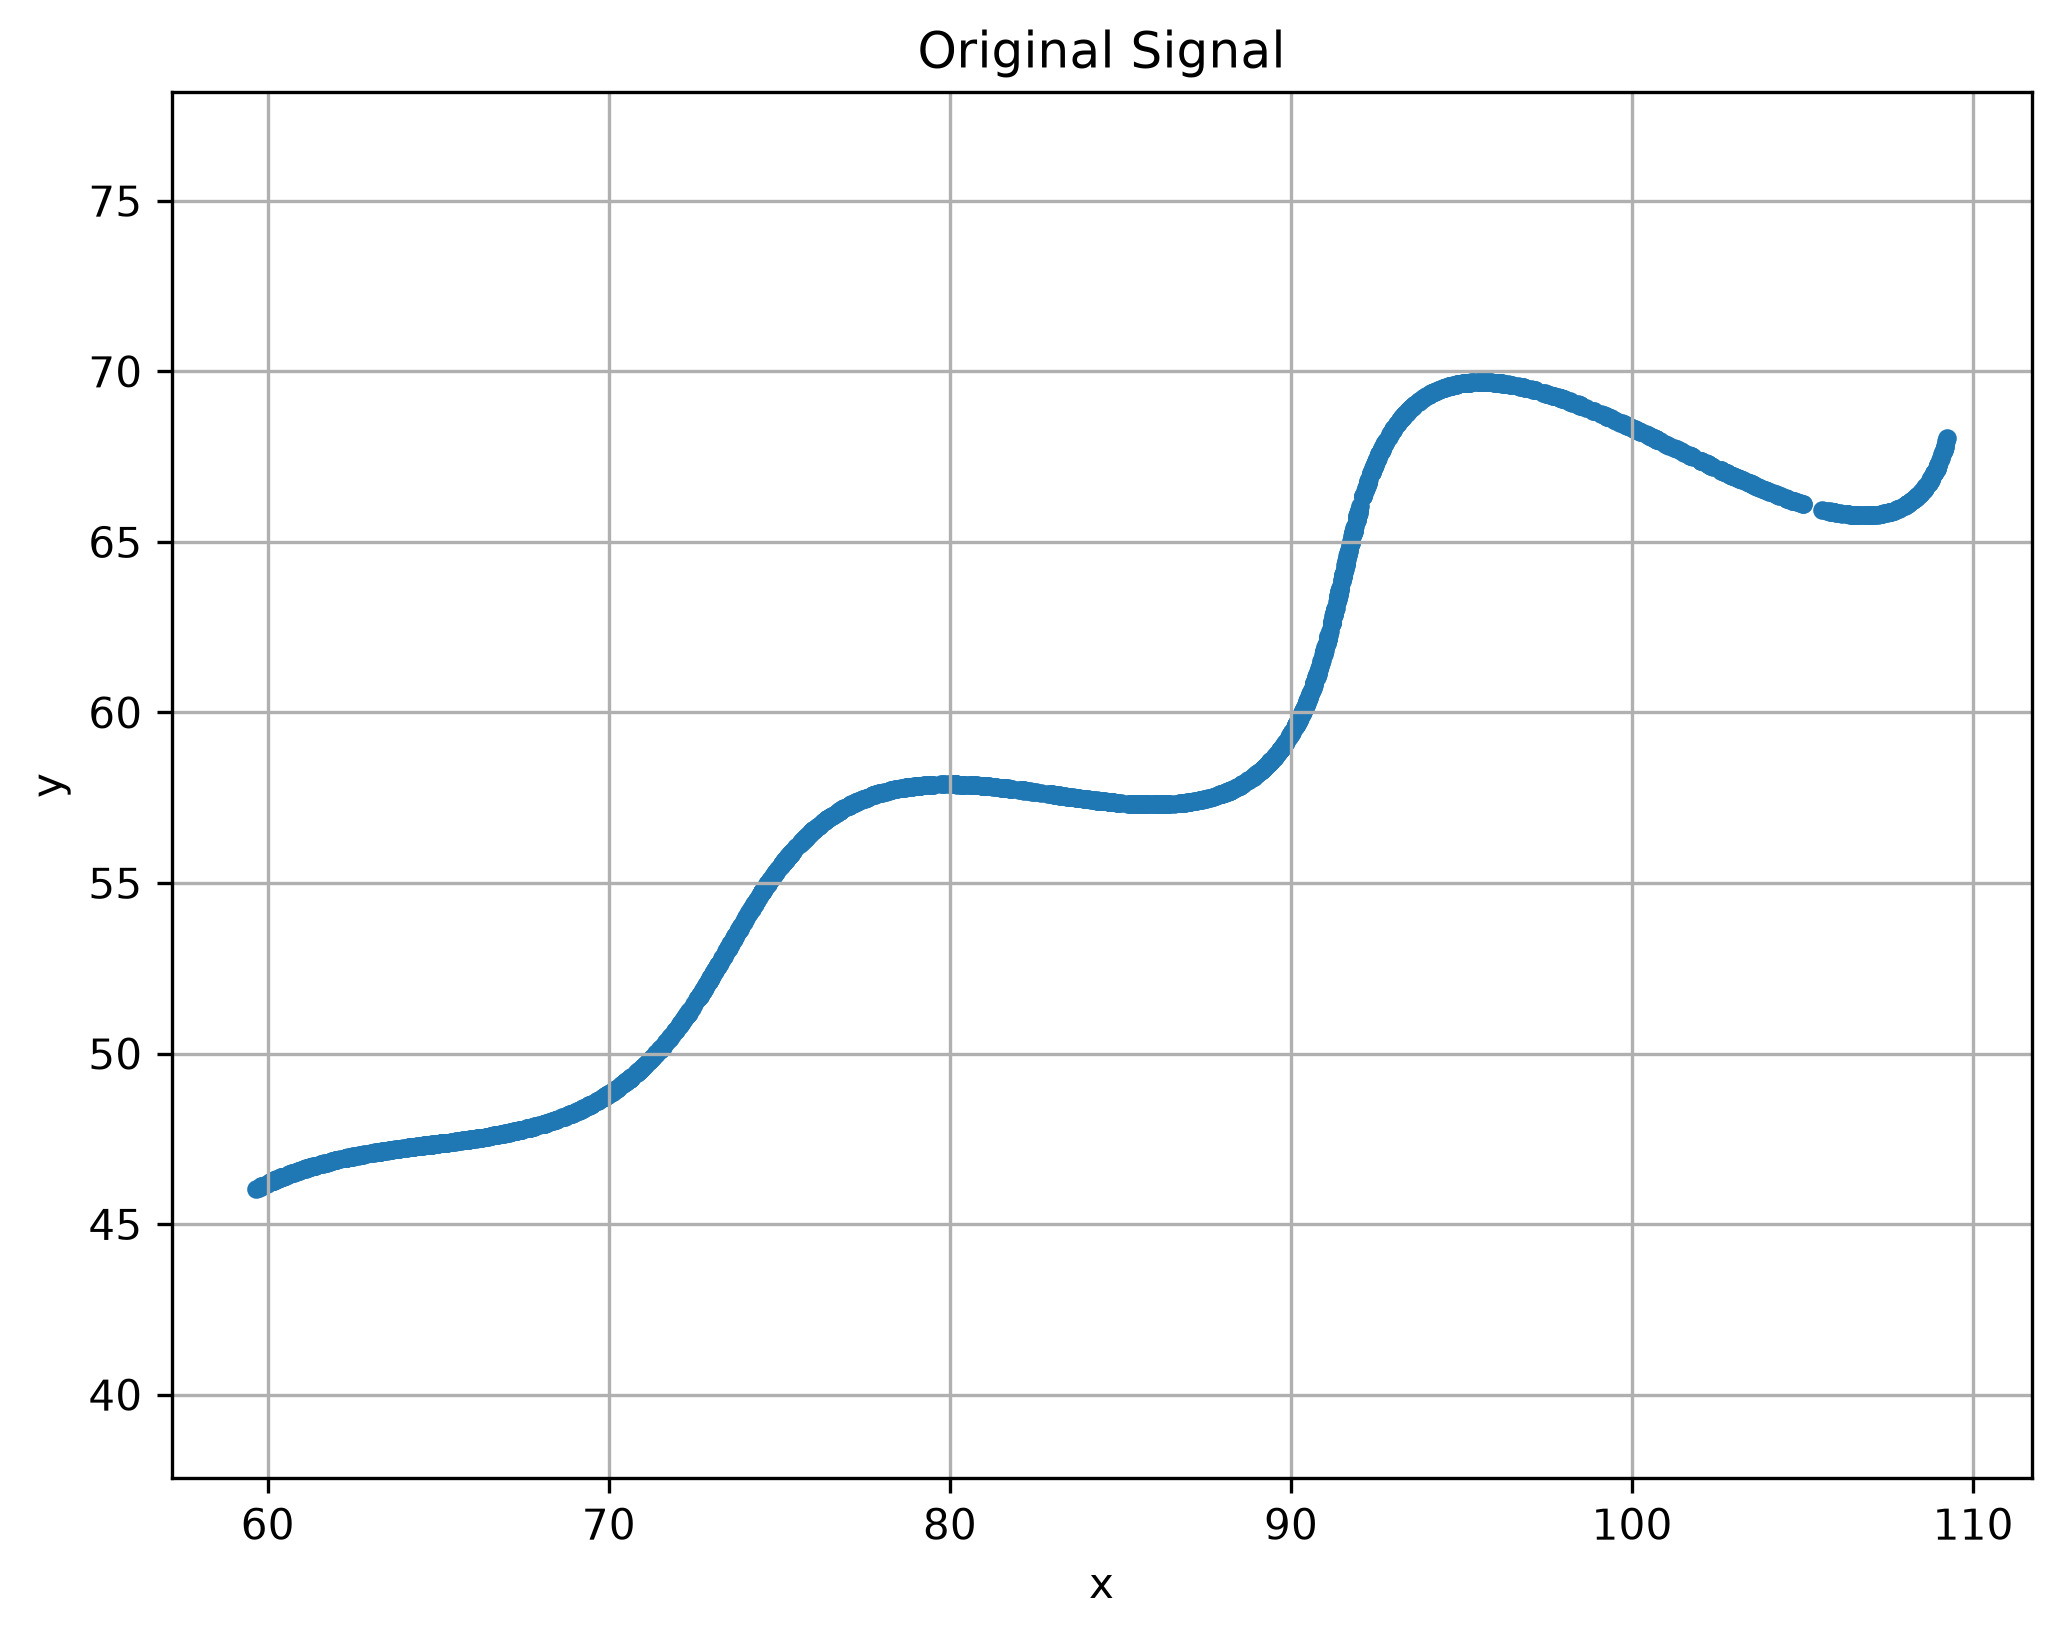
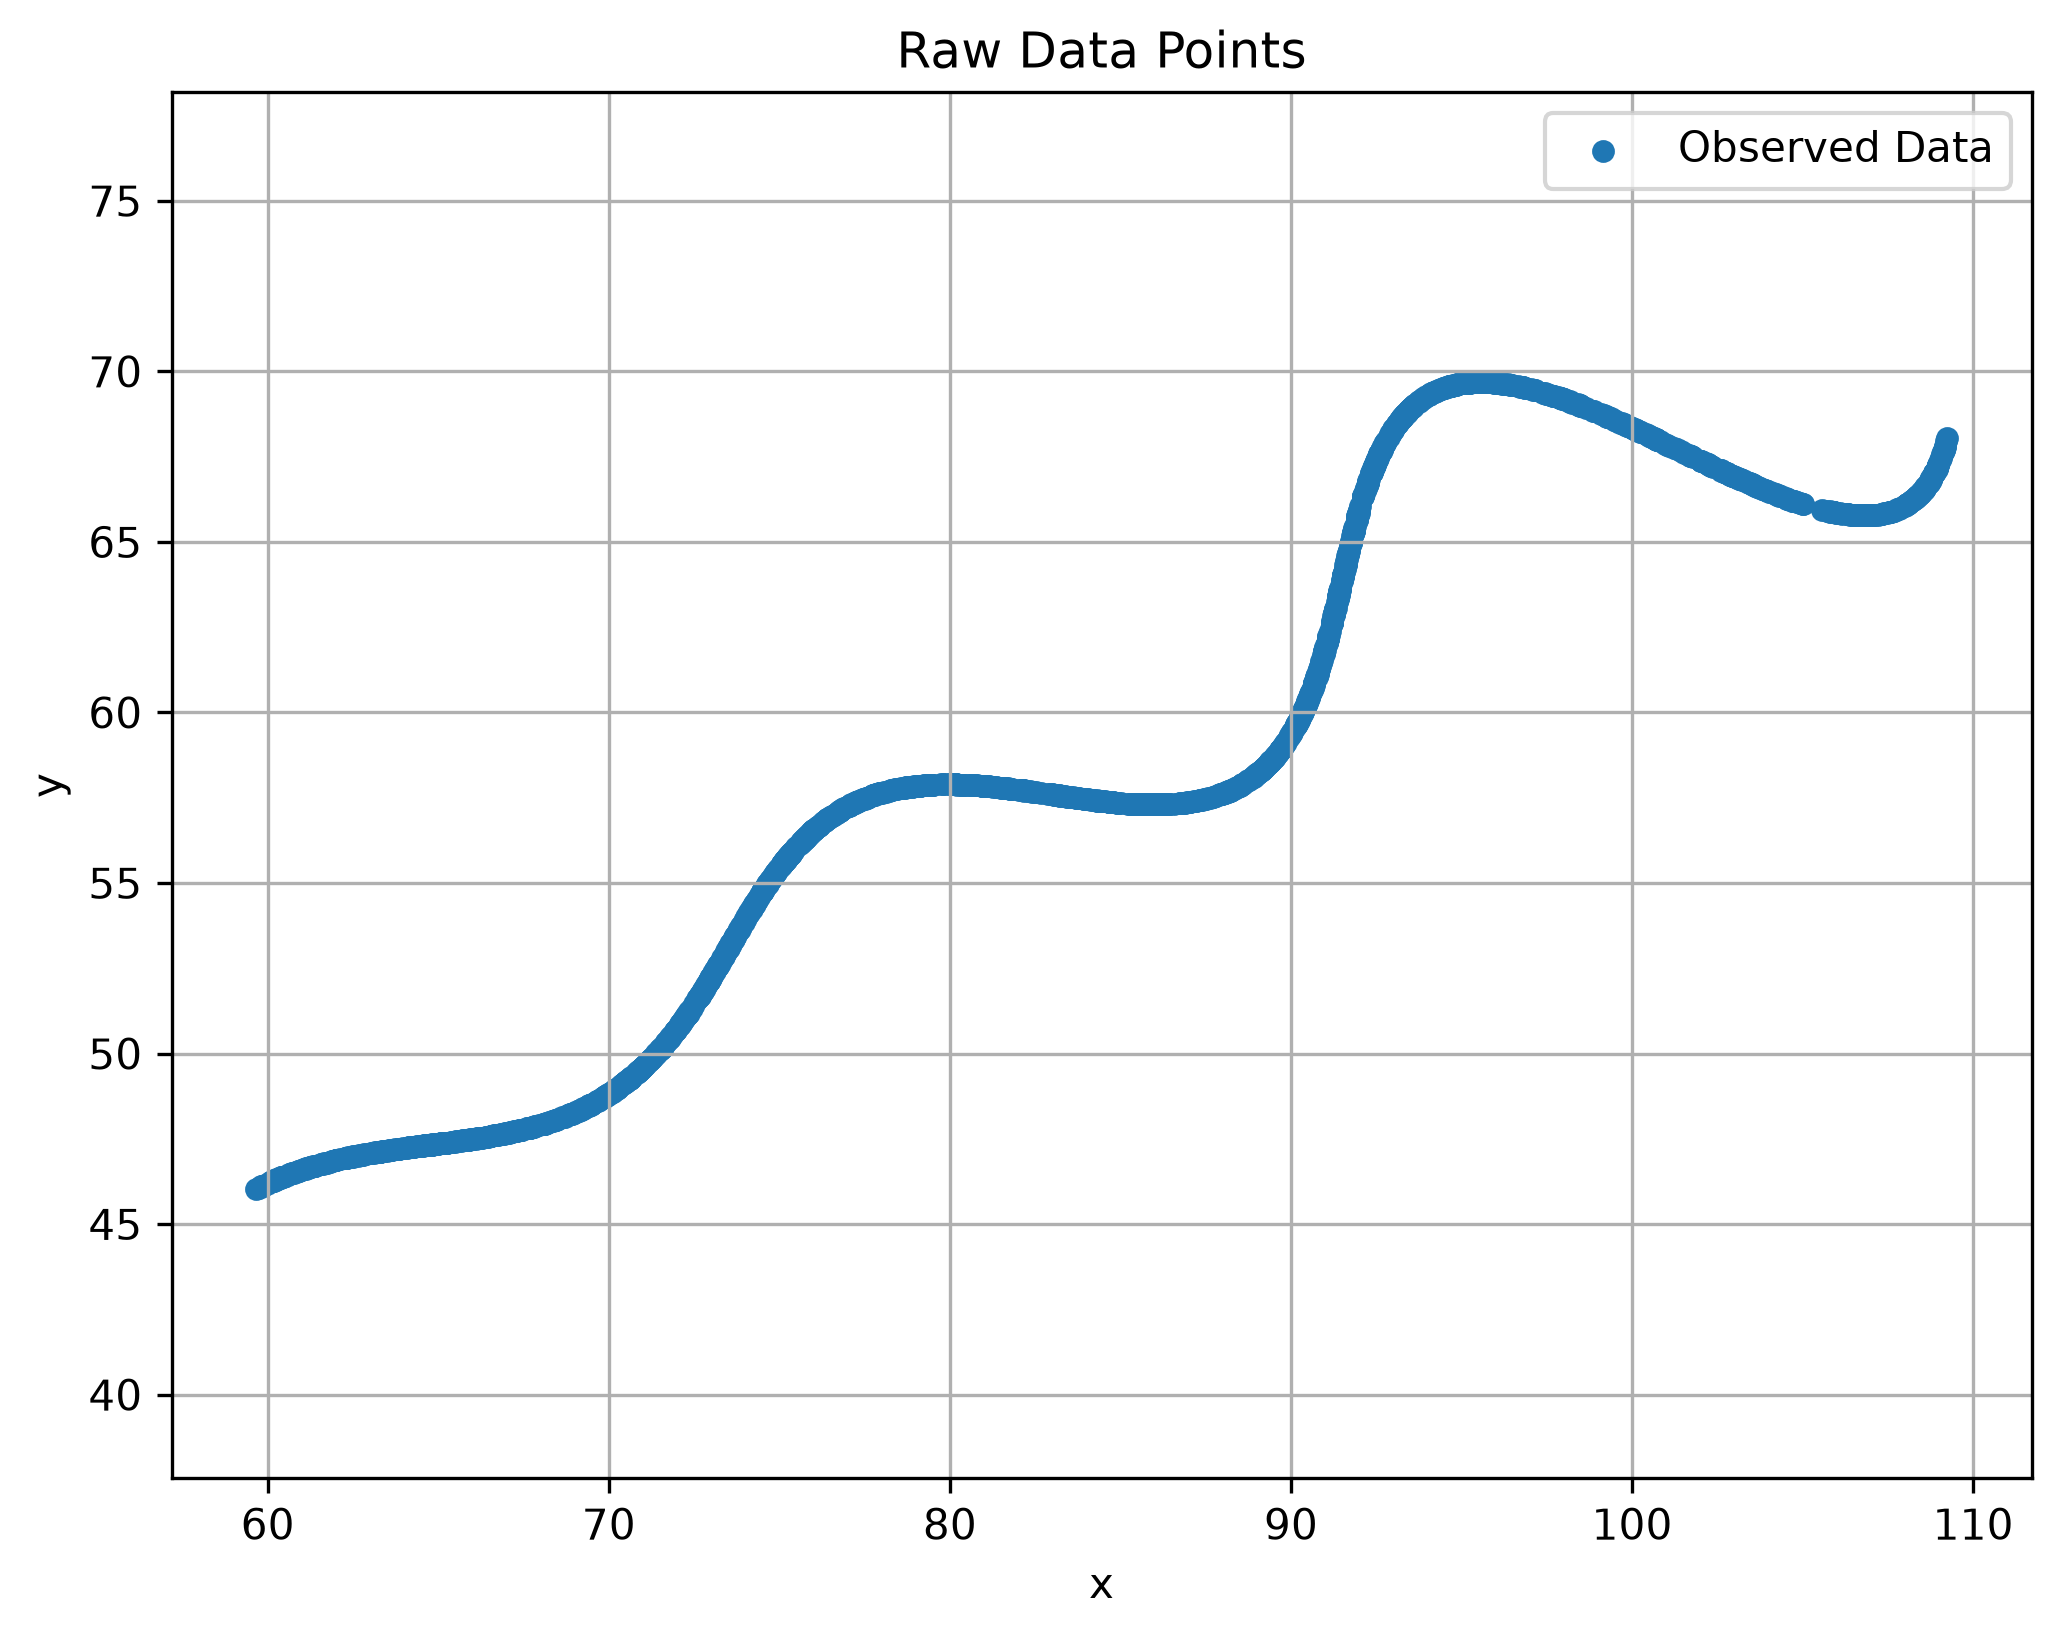
Updated readme

Changed region(s): [[0.7453, 0.0623, 0.9626, 0.1245], [0.4347, 0.0, 0.6211, 0.0623], [0.8384, 0.2802, 0.8695, 0.3114]]

diff --git a/main.py b/main.py
@@ -2,35 +2,56 @@ import os
 import pandas as pd
 import matplotlib.pyplot as plt
 
+os.makedirs("results", exist_ok=True)
+
 df = pd.read_csv("xy_data.csv")
 
-# Dataset Information
-print("\nDataset Shape:")
+print("Dataset Shape:")
 print(df.shape)
+
 print("\nColumns:")
 print(df.columns)
-print("\nFirst 5 rows:")
+
+print("\nFirst 5 Rows:")
 print(df.head())
-print("\nStatistics:")
+
+print("\nSummary Statistics:")
 print(df.describe())
 
-# Save statistics
 with open("results/data_summary.txt", "w") as f:
     f.write("Dataset Shape:\n")
     f.write(str(df.shape))
-    f.write("\n\nStatistics:\n")
+
+    f.write("\n\nColumns:\n")
+    f.write(str(list(df.columns)))
+
+    f.write("\n\nSummary Statistics:\n")
     f.write(str(df.describe()))
 
-plt.figure(figsize=(8,6))
+plt.figure(figsize=(8, 6))
+
+plt.scatter(
+    df["x"],
+    df["y"],
+    s=20,
+    label="Observed Data"
+)
+
 plt.xlabel("x")
 plt.ylabel("y")
-plt.title("Original Signal")
+plt.title("Raw Data Points")
 plt.axis("equal")
 plt.grid(True)
+plt.legend()
 
-plt.savefig("results/original_signal.png",dpi=300,bbox_inches="tight")
+plt.savefig(
+    "results/original_signal.png",
+    dpi=300,
+    bbox_inches="tight"
+)
 
 plt.show()
-print("\nSaved:")
+
+print("\nFiles Generated:")
 print("results/original_signal.png")
 print("results/data_summary.txt")

diff --git a/README.md b/README.md
@@ -1,3 +1,313 @@
-# flamapp-assignment
+# FlamAPP Assignment
 
-The optimization was formulated as a nested parameter estimation problem. The outer optimizer estimated the global curve parameters (θ, M, X), while an inner bounded scalar optimization recovered the closest curve parameter t for each observed point. This avoids introducing one optimization variable per sample point and significantly reduces the dimensionality of the global search space.
+## Recovering Unknown Parameters from a Parametric Curve
+
+### 1. What is this assignment about?
+
+In this assignment, we are given a set of `(x, y)` points stored in `xy_data.csv`.
+
+These points were generated from a mathematical curve, but some of the curve parameters were hidden.
+
+The goal is to recover the unknown values:
+
+* θ (theta)
+* M
+* X
+
+using only the observed points and the given curve equation. The assignment description asks us to estimate these unknown parameters from the provided data. 
+
+---
+
+## 2. Understanding the Curve
+
+The curve is defined by two equations:
+
+```text
+x(t) = t*cos(θ) - e^(M|t|)*sin(0.3t)*sin(θ) + X
+
+y(t) = 42 + t*sin(θ) + e^(M|t|)*sin(0.3t)*cos(θ)
+```
+
+At first glance this looks complicated, but it can be understood in three parts:
+
+### θ (Theta)
+
+Theta controls the rotation of the curve.
+
+If theta changes, the entire curve tilts in a different direction.
+
+---
+
+### M
+
+The exponential term contains M:
+
+```text
+e^(M|t|)
+```
+
+This controls whether the oscillations grow or shrink as `t` increases.
+
+* Positive M → oscillations grow
+* Negative M → oscillations decay
+* M near zero → oscillations stay roughly constant
+
+---
+
+### X
+
+X simply shifts the curve horizontally.
+
+Increasing X moves everything to the right.
+
+Decreasing X moves everything to the left.
+
+### A Useful Observation
+
+The equations can also be viewed from a geometric perspective.
+
+If we define:
+
+u(t) = t
+
+v(t) = e^(M|t|) sin(0.3t)
+
+then the curve becomes:
+
+x - X = u cos(θ) - v sin(θ)
+
+y - 42 = u sin(θ) + v cos(θ)
+
+This is exactly the form of a 2D rotation matrix.
+
+In other words, the curve can be interpreted as a base signal `(u,v)` that is rotated by an angle θ and then shifted horizontally by X.
+
+Recognizing this structure was useful because it showed that θ acts globally on the entire curve, while t acts locally on individual points. This observation naturally led to the nested optimization approach used later in the project.
+
+---
+
+## 3. First Step: Explore the Data
+
+Before attempting any optimization, I inspected the dataset.
+
+The purpose of this step was:
+
+* Verify the file loads correctly
+* Check the number of points
+* Look for missing values
+* Visualize the overall shape of the curve
+
+This is handled in `main.py`, which loads the dataset, prints basic statistics, and saves a scatter plot of the raw data.  
+
+Generated outputs:
+
+```text
+results/
+├── data_summary.txt
+└── original_signal.png
+```
+
+---
+
+## 4. Initial Idea
+
+My first thought was:
+
+> If the parameter t ranges from 6 to 60, perhaps the observed points are evenly spaced in t.
+
+Using this assumption, I generated:
+
+```python
+t = np.linspace(6, 60, len(data))
+```
+
+and compared the generated curve with the observed points.
+
+Although the overall shape looked reasonable, the fit was not accurate.
+
+The curve matched the trend but did not correctly align with many of the observed points.
+
+This suggested that the data points were not necessarily sampled at evenly spaced values of t.
+
+---
+
+## 5. Main Insight
+
+The important realization was:
+
+> The dataset gives us x and y values, but it never tells us which value of t produced each point.
+
+This means that t is effectively unknown for every observation.
+
+Instead of forcing:
+
+```text
+Point 1 → t1
+Point 2 → t2
+Point 3 → t3
+```
+
+using evenly spaced values,
+
+I allowed the algorithm to find the best t value for every observed point.
+
+This became the key idea behind the solution.
+
+Instead of treating t as a known quantity, the problem was reformulated as a parameter estimation task where θ, M and X are global variables, while t is recovered separately for each observed point. This reduced the dimensionality of the outer optimization problem and allowed the optimizer to focus only on the three unknown parameters requested in the assignment.
+
+---
+
+## 6. Optimization Strategy
+
+The optimization was performed in two levels.
+
+### Outer Optimization
+
+The outer optimizer searched for:
+
+```text
+θ
+M
+X
+```
+
+within the assignment limits. 
+
+I used Differential Evolution because:
+
+* It does not require gradients
+* It performs well on non-linear problems
+* It is less likely to get trapped in local minima
+
+The implementation can be found in `solve.py`. 
+
+---
+
+### Inner Optimization
+
+For every observed point:
+
+```text
+(x_i, y_i)
+```
+
+I searched for the value of t that produced the closest point on the curve.
+
+This was done using a bounded one-dimensional optimization over:
+
+```text
+6 ≤ t ≤ 60
+```
+
+The implementation uses `minimize_scalar`. 
+
+This creates a nested optimization structure:
+
+```text
+Outer:
+    Find θ, M, X
+
+Inner:
+    Find best t for each point
+```
+
+---
+
+## 7. Refinement Step
+
+After Differential Evolution found a good solution, I used Nelder-Mead as a local optimization method to further improve the parameter estimates. 
+
+The purpose of this step was to fine-tune the parameters after the global search had already identified a promising region.
+
+---
+
+## 8. Outputs Generated
+
+The program generates:
+
+```text
+results/
+├── data_summary.txt
+├── original_signal.png
+├── final_result.txt
+└── fitted_curve.png
+```
+
+The fitted curve plot overlays:
+
+* Observed data points
+* Predicted curve
+
+allowing a visual comparison of the fit. 
+
+---
+
+## 9. Why I Trust the Result
+
+Several observations increase confidence that the recovered parameters are correct.
+
+1. The predicted curve visually overlaps the observed data over the full range of points.
+
+2. The final optimization loss is extremely small, indicating that the generated curve closely matches the provided dataset.
+
+3. Differential Evolution and Nelder-Mead converge to nearly the same region of the parameter space. This suggests the solution is stable rather than being an artifact of a single optimization run.
+
+4. The recovered parameters are remarkably close to simple round values:
+
+   - θ ≈ 30°
+   - M ≈ 0.03
+   - X ≈ 55
+
+   Combined with the very small residual error, this strongly suggests that these are the true generating parameters rather than arbitrary values found by chance.
+
+Taken together, the visual fit, low residual error, and convergence behaviour provide strong evidence that the recovered parameters accurately describe the original curve.
+---
+
+## 10. Limitations
+
+Although the fit is very accurate, there are still a few limitations worth noting.
+
+1. The optimization is computationally expensive because every evaluation of the objective function requires multiple inner searches to recover the best t value for each observed point.
+
+2. Some correlation exists between θ and X. Small changes in the rotation angle can sometimes be partially compensated by horizontal translation, making these parameters slightly coupled during optimization.
+
+3. The parameter M controls the exponential envelope:
+
+   e^(M|t|)
+
+   Because this term grows with increasing t, the later portions of the curve have a stronger influence on estimating M than the earlier portions. As a result, noise in the high-t region could affect the estimate more strongly.
+
+4. If the dataset were significantly noisier or contained fewer points, parameter recovery would become more difficult and uncertainty would increase.
+
+These limitations are common in inverse parameter estimation problems and should be considered when applying the same methodology to real-world data.
+---
+
+## 11. Possible Improvements
+
+If more time were available, I would explore:
+
+* Confidence intervals for the parameters
+* Bootstrap resampling
+* Faster nearest-point search methods
+* Alternative optimizers such as Least Squares
+* Parallelization of the inner optimization loop
+
+---
+
+## 12. How to Run
+
+```bash
+pip install -r requirements.txt
+
+python main.py
+python solve.py
+```
+
+Dependencies used:
+
+```text
+numpy
+pandas
+matplotlib
+scipy
+```